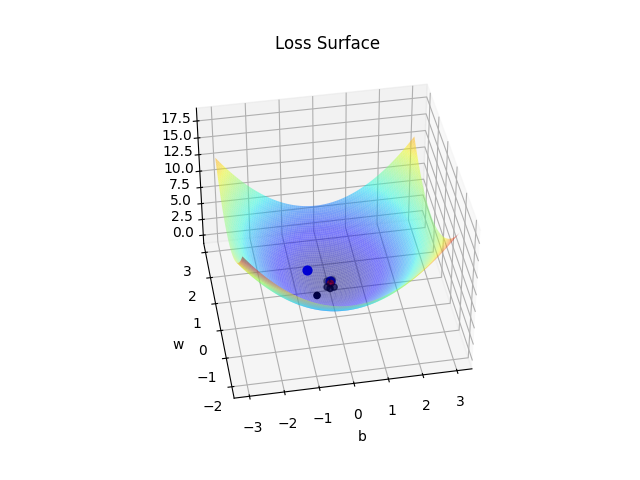
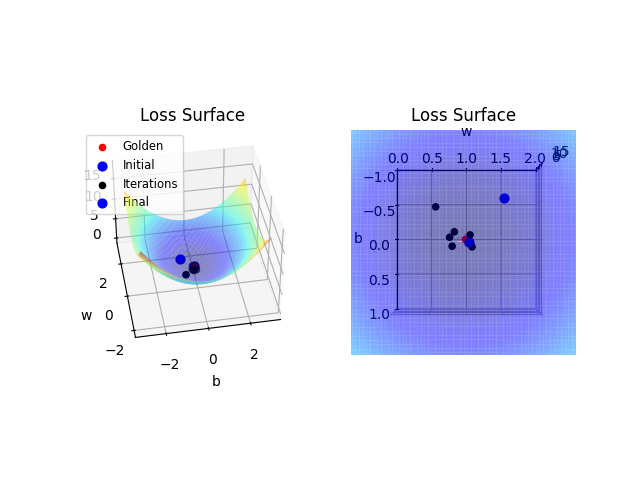
Added top down loss surface

diff --git a/project_01/report/code/complete.py b/project_01/report/code/complete.py
@@ -74,7 +74,7 @@ plt.savefig(f"{FIGURES_DIR}/linear_regression.png");
 
 b_depth = 3;
 w_depth = 3;
-b_range = np.linspace( b_lr - b_depth, b_lr + b_depth, 100 ); 
+b_range = np.linspace( b_lr - b_depth, b_lr + b_depth, 100 );
 w_range = np.linspace( w_lr - w_depth, b_lr + w_depth, 100 );
 b_surf, w_surf = np.meshgrid( b_range, w_range );
 y_surf = np.apply_along_axis( func1d=lambda x: b_surf + w_surf*x,
@@ -87,7 +87,8 @@ loss_surf = (all_errors**2).mean(axis=0);
 
 fig = plt.figure();
 ax = fig.add_subplot( 111, projection='3d')
-ax.plot_surface( b_surf, w_surf, loss_surf, rstride=1, cstride=1, alpha=.5, cmap=plt.cm.jet, linewidth=0, antialiased=True); 
+ax.plot_surface( b_surf, w_surf, loss_surf, rstride=1, cstride=1, alpha=.5, cmap=plt.cm.jet, linewidth=0, antialiased=True);
+ax.scatter(b_lr, w_lr, color='red', s=20);
 ax.set_xlabel('b');
 ax.set_ylabel('w');
 ax.set_title('Loss Surface');
@@ -112,22 +113,38 @@ for itr in range(N_ITR):
 iterations = np.array(iterations);
 print(f"[Naive] b: {iterations[-1][0]:.4}, w: {iterations[-1][1]:.4}, mse: {iterations[-1][2]:.4}");
 
-fig = plt.figure();
-ax = fig.add_subplot( 111, projection='3d')
-
 # ~~~~~~~~~~~~~~~~~~~~~~~~~~~
 # Part D
 # ~~~~~~~~~~~~~~~~~~~~~~~~~~~
+fig = plt.figure();
+ax = fig.add_subplot( 121, projection='3d')
 ax.plot_surface( b_surf, w_surf, loss_surf, rstride=1, cstride=1, alpha=.5, cmap=plt.cm.jet, linewidth=0, antialiased=True);
-ax.scatter(b_lr, w_lr, color='red', s=20); 
-ax.scatter(iterations[0][0], iterations[0][1], color='blue', s=40); 
-ax.scatter(iterations[1:-1:,0], iterations[1:-1:,1,], color='black', s=20);
-ax.scatter(iterations[-1][0], iterations[-1][1], color='blue', s=40); 
+ax.scatter(b_lr, w_lr, color='red', s=20, label="Golden");
+ax.scatter(iterations[0][0], iterations[0][1], color='blue', s=40, label="Initial");
+ax.scatter(iterations[1:-1:,0], iterations[1:-1:,1,], color='black', s=20, label="Iterations");
+ax.scatter(iterations[-1][0], iterations[-1][1], color='blue', s=40, label="Final");
 ax.set_xlabel('b');
 ax.set_ylabel('w');
 ax.set_title('Loss Surface');
-ax.view_init(40, 260)
+ax.view_init(40, 260);
+plt.legend(fontsize="small");
+
+ax = fig.add_subplot( 122, projection='3d')
+ax.plot_surface( b_surf, w_surf, loss_surf, rstride=1, cstride=1, alpha=.5, cmap=plt.cm.jet, linewidth=0, antialiased=True);
+ax.scatter(b_lr, w_lr, color='red', s=20, label="Golden");
+ax.scatter(iterations[0][0], iterations[0][1], color='blue', s=40, label="Initial");
+ax.scatter(iterations[1:-1:,0], iterations[1:-1:,1,], color='black', s=20, label="Iterations");
+ax.scatter(iterations[-1][0], iterations[-1][1], color='blue', s=40, label="Final");
+ax.set_xlabel('b');
+ax.set_ylabel('w');
+ax.set_xlim(-1, 1 );
+ax.set_ylim(0, 2);
+ax.set_title('Loss Surface');
+ax.view_init(90, 0);
 plt.savefig(f"{FIGURES_DIR}/loss_surface_naive.png");
+
+
+
 
 # ~~~~~~~~~~~~~~~~~~~~~~~~~~~
 # Part E

diff --git a/project_01/src/project1.py b/project_01/src/project1.py
@@ -113,22 +113,38 @@ for itr in range(N_ITR):
 iterations = np.array(iterations);
 print(f"[Naive] b: {iterations[-1][0]:.4}, w: {iterations[-1][1]:.4}, mse: {iterations[-1][2]:.4}");
 
-fig = plt.figure();
-ax = fig.add_subplot( 111, projection='3d')
-
 # ~~~~~~~~~~~~~~~~~~~~~~~~~~~
 # Part D
 # ~~~~~~~~~~~~~~~~~~~~~~~~~~~
+fig = plt.figure();
+ax = fig.add_subplot( 121, projection='3d')
 ax.plot_surface( b_surf, w_surf, loss_surf, rstride=1, cstride=1, alpha=.5, cmap=plt.cm.jet, linewidth=0, antialiased=True);
-ax.scatter(b_lr, w_lr, color='red', s=20);
-ax.scatter(iterations[0][0], iterations[0][1], color='blue', s=40);
-ax.scatter(iterations[1:-1:,0], iterations[1:-1:,1,], color='black', s=20);
-ax.scatter(iterations[-1][0], iterations[-1][1], color='blue', s=40);
+ax.scatter(b_lr, w_lr, color='red', s=20, label="Golden");
+ax.scatter(iterations[0][0], iterations[0][1], color='blue', s=40, label="Initial");
+ax.scatter(iterations[1:-1:,0], iterations[1:-1:,1,], color='black', s=20, label="Iterations");
+ax.scatter(iterations[-1][0], iterations[-1][1], color='blue', s=40, label="Final");
 ax.set_xlabel('b');
 ax.set_ylabel('w');
 ax.set_title('Loss Surface');
-ax.view_init(40, 260)
+ax.view_init(40, 260);
+plt.legend(fontsize="small");
+
+ax = fig.add_subplot( 122, projection='3d')
+ax.plot_surface( b_surf, w_surf, loss_surf, rstride=1, cstride=1, alpha=.5, cmap=plt.cm.jet, linewidth=0, antialiased=True);
+ax.scatter(b_lr, w_lr, color='red', s=20, label="Golden");
+ax.scatter(iterations[0][0], iterations[0][1], color='blue', s=40, label="Initial");
+ax.scatter(iterations[1:-1:,0], iterations[1:-1:,1,], color='black', s=20, label="Iterations");
+ax.scatter(iterations[-1][0], iterations[-1][1], color='blue', s=40, label="Final");
+ax.set_xlabel('b');
+ax.set_ylabel('w');
+ax.set_xlim(-1, 1 );
+ax.set_ylim(0, 2);
+ax.set_title('Loss Surface');
+ax.view_init(90, 0);
 plt.savefig(f"{FIGURES_DIR}/loss_surface_naive.png");
+
+
+
 
 # ~~~~~~~~~~~~~~~~~~~~~~~~~~~
 # Part E
